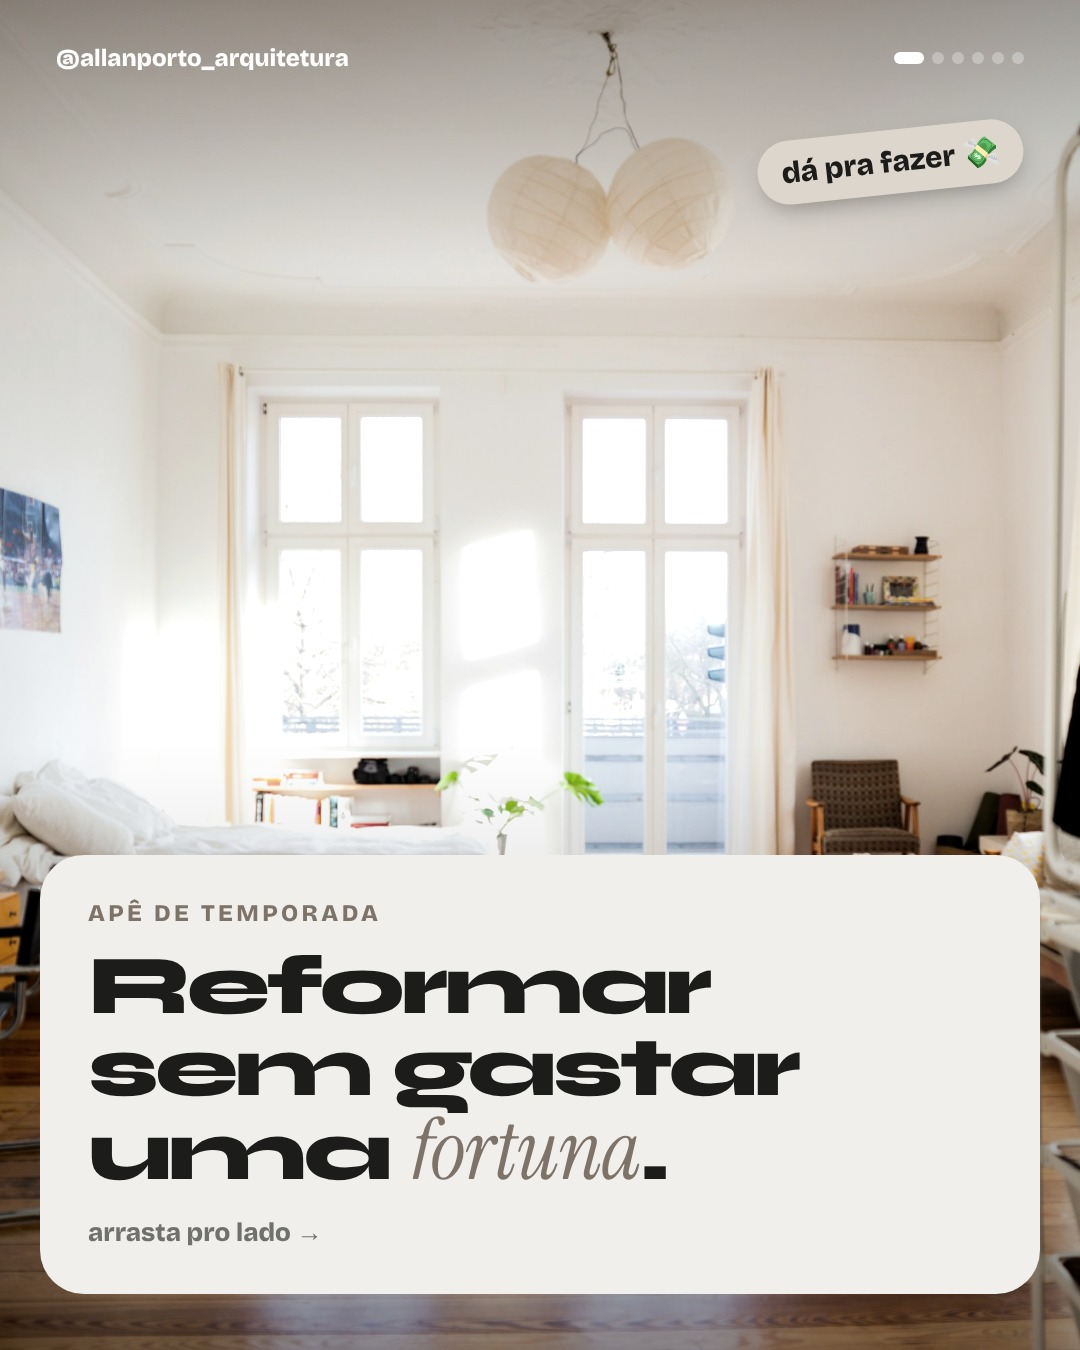
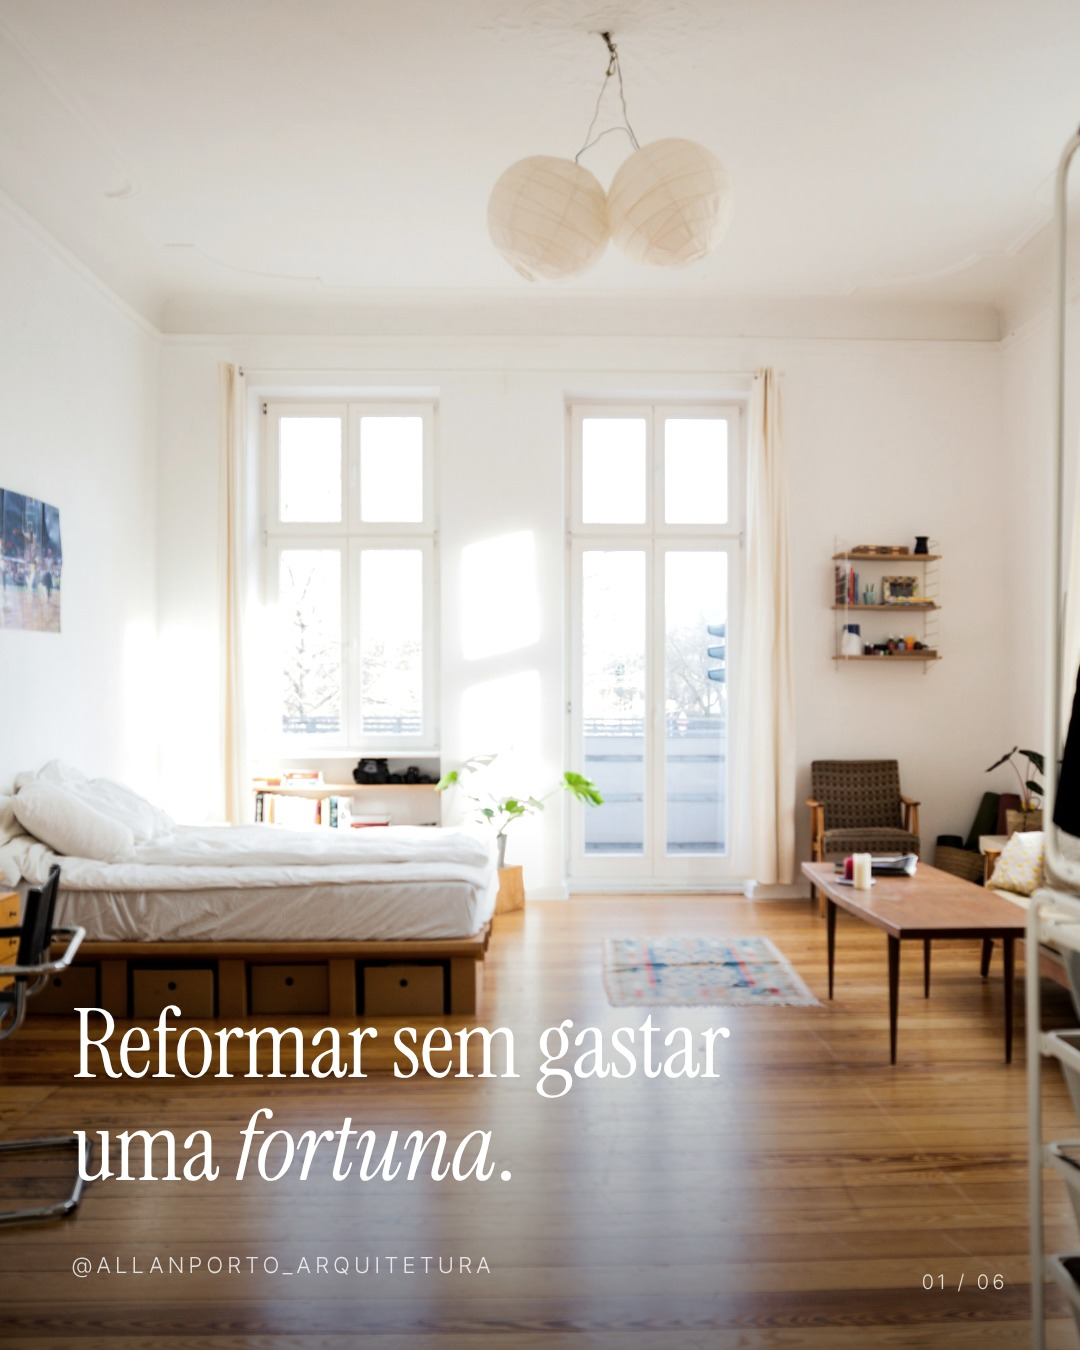
feat(instagram): padrão minimalista (minimal.mjs) e regra de ouro na linha editorial; post 1 de temporada refeito
Claude-Session: https://claude.ai/code/session_016kywDDGkkJgVuv7QVRJSHL

diff --git a/marketing/instagram/EDITORIAL.md b/marketing/instagram/EDITORIAL.md
@@ -2,7 +2,17 @@
 
 **Ideia:** sair do "post pronto". O feed vira uma revista de arquitetura: fotografia em primeiro plano, frase curta, muito respiro.
 
-## Identidade visual ATUAL (v3 · vibe neutra, aprovada em 04/11)
+## REGRA DE OURO (Allan, 12/11): post minimalista
+**Minimalista, tipografia leve, identidade visual equilibrada.** Vale para todo post daqui para frente.
+- Gerador: `node minimal.mjs <pasta>` a partir de `posts/<pasta>/minimal.json` (tipos `capa`, `foto`, `frase`, `fecho`). `vibe.mjs` fica só como referência antiga.
+- Tipografia: Instrument Serif regular (frase) + Inter Tight 300 (rótulos e apoio). Nada de ExtraBold/negrito. Itálico é o único destaque.
+- Sem adesivos, sombras, botões, bolinhas, ícones, marca-texto ou cores vivas. Fundo papel `#F4F2EE`, tinta `#1E1D1B`, cinza `#8C877F`.
+- Uma foto limpa por slide, uma frase curta (até ~6 palavras), muito espaço em branco.
+- **UX:** 1 ideia e 1 ponto focal por slide; hierarquia só por tamanho; leitura em Z/F; CTA único e discreto; mesma posição de texto em todos os slides; contraste legível.
+- **Gestalt:** proximidade (rótulo colado à sua frase), similaridade (mesma grade e margem de 72px em todos os slides), figura/fundo (foto limpa sobre papel liso), continuidade (alinhamento à esquerda do começo ao fim), espaço negativo como elemento de design.
+- Foco atual de conteúdo (12/11): economia criativa e apartamentos de aluguel por temporada, reformar gastando pouco.
+
+## Identidade visual (v3 · vibe neutra, 04/11; substituída pelo minimalista)
 - Gerador: `node vibe.mjs <data>` a partir de `posts/<data>/vibe.json` (tipos `gancho`, `cena`, `virada`, `lista`, `fecho`).
 - Paletas neutras: `argila`, `pedra`, `grafite`, `oliva`. Fotos claras, levemente dessaturadas, com pessoas reais (homens e mulheres) e arquitetura de referência — não só interiores/decoração.
 - Títulos em Syne ExtraBold + itálico Instrument Serif no destaque; texto de apoio em Bricolage Grotesque. Cards arredondados, adesivos bege, bolinhas de progresso.
